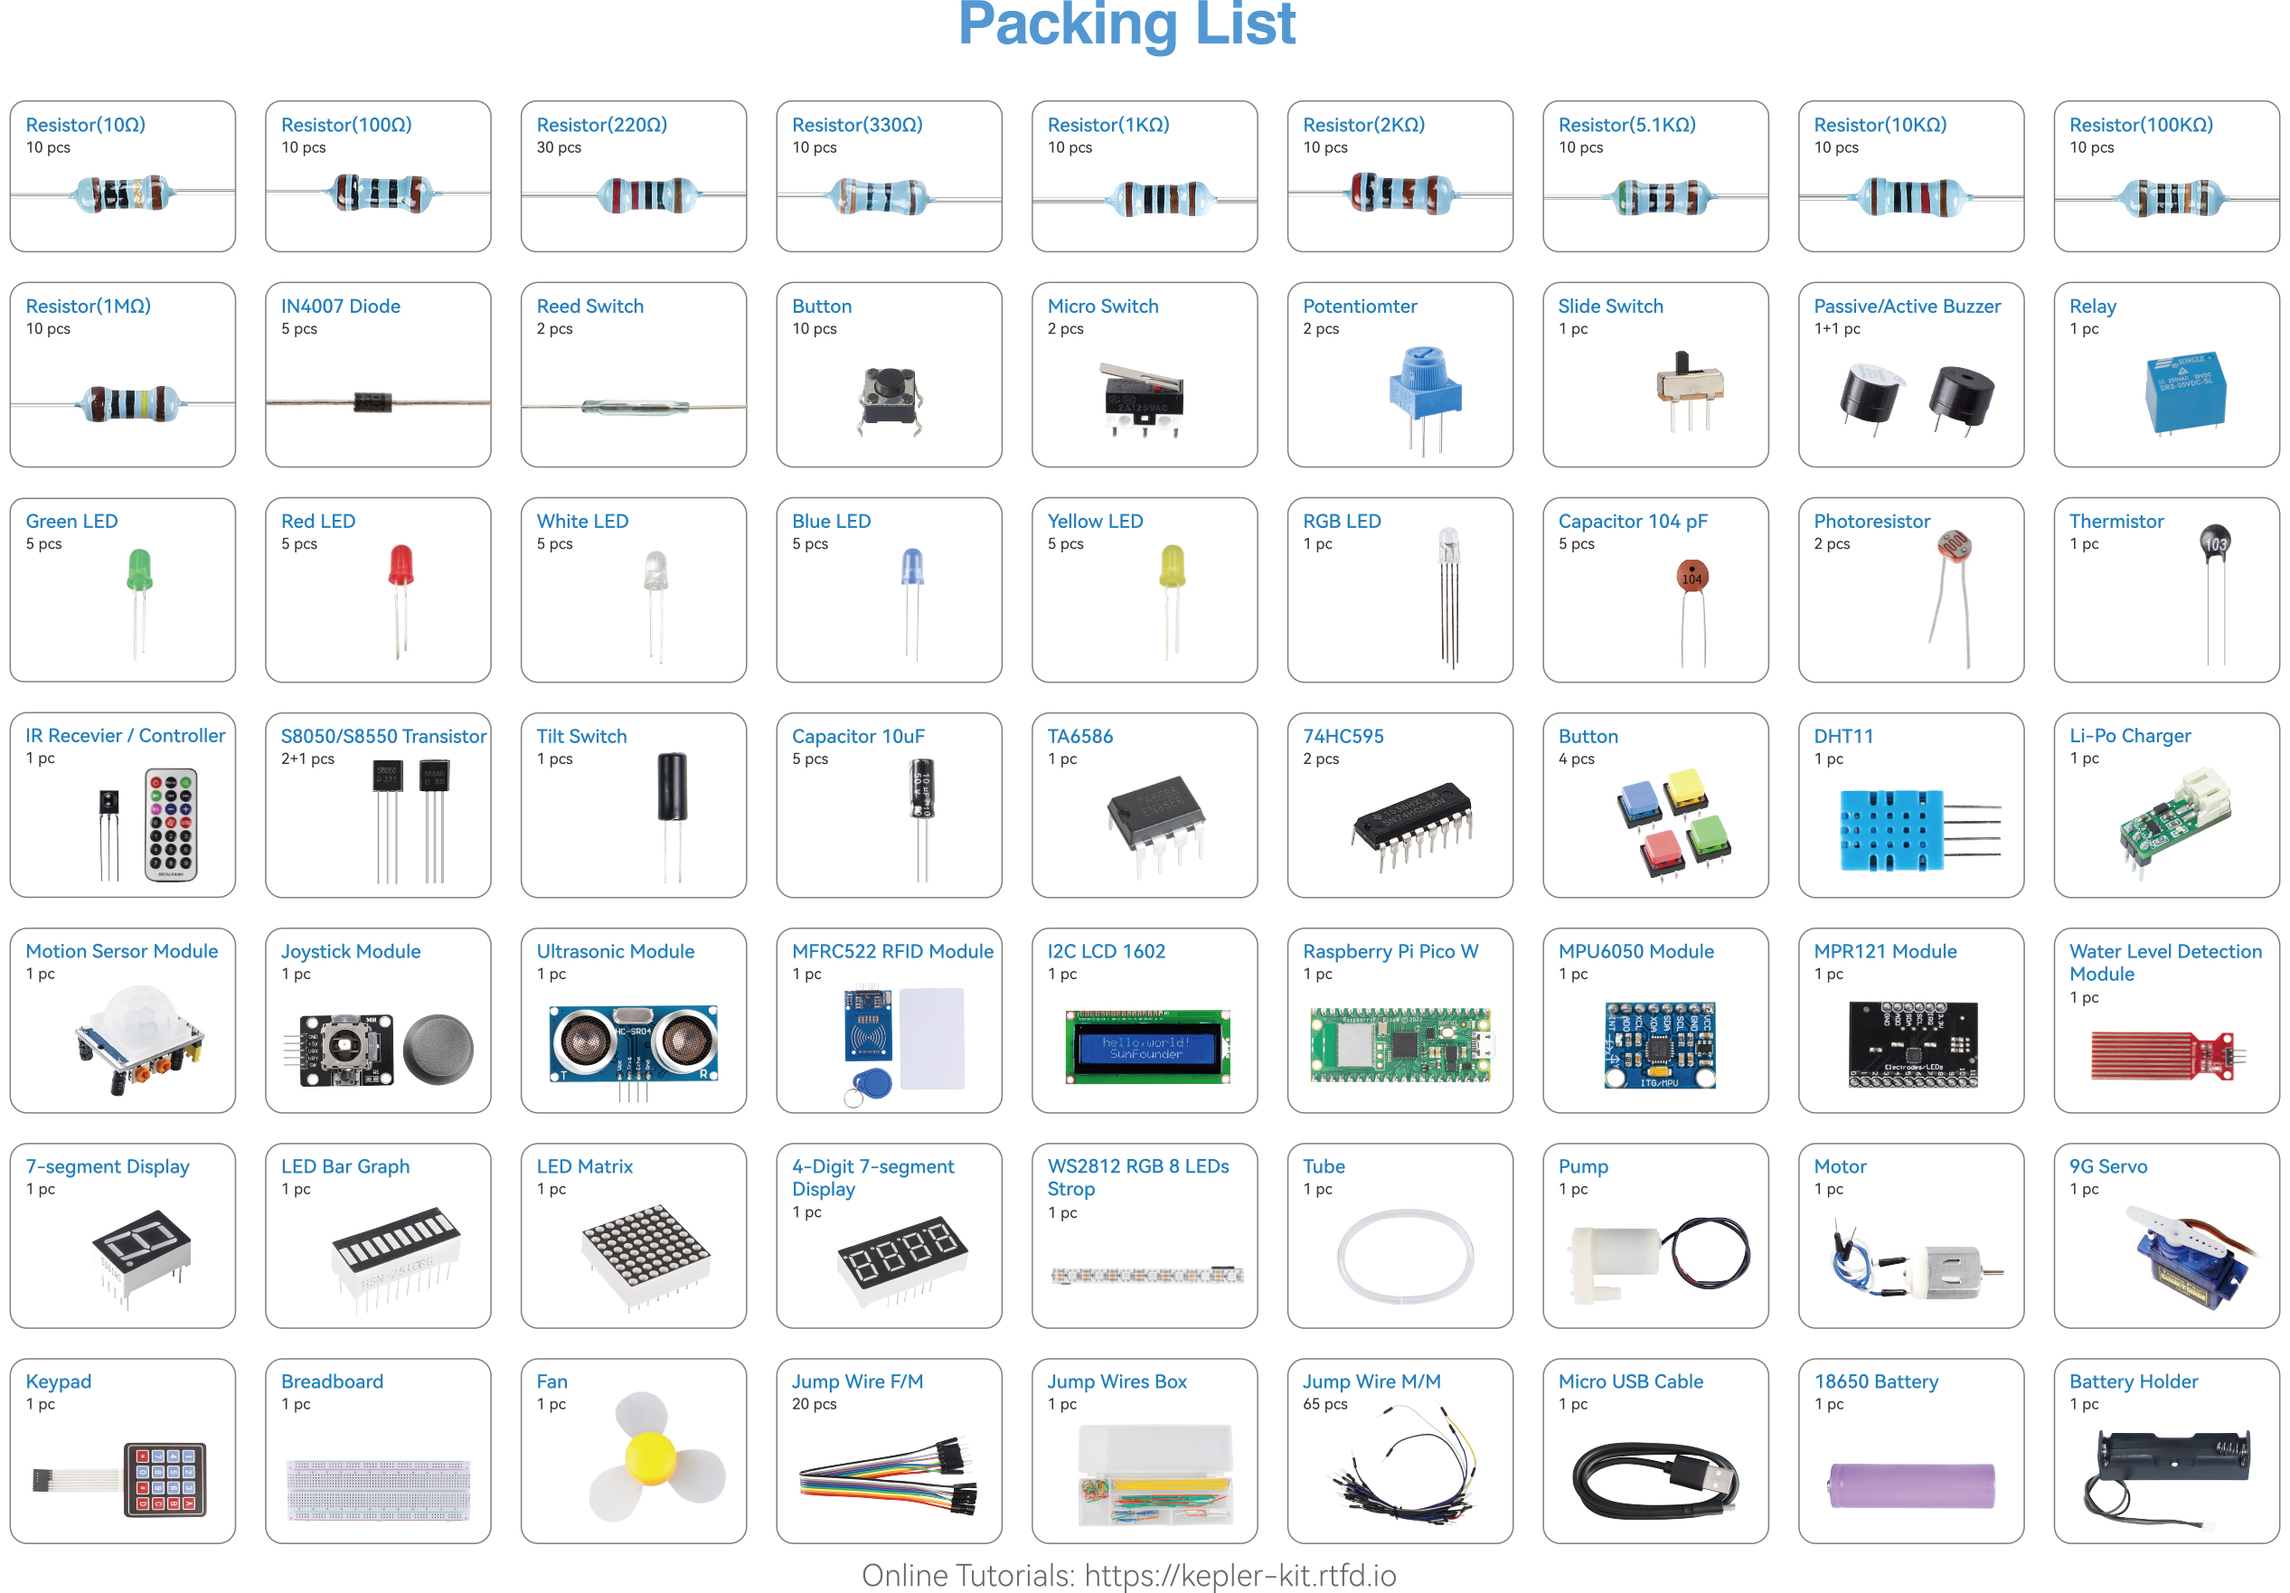
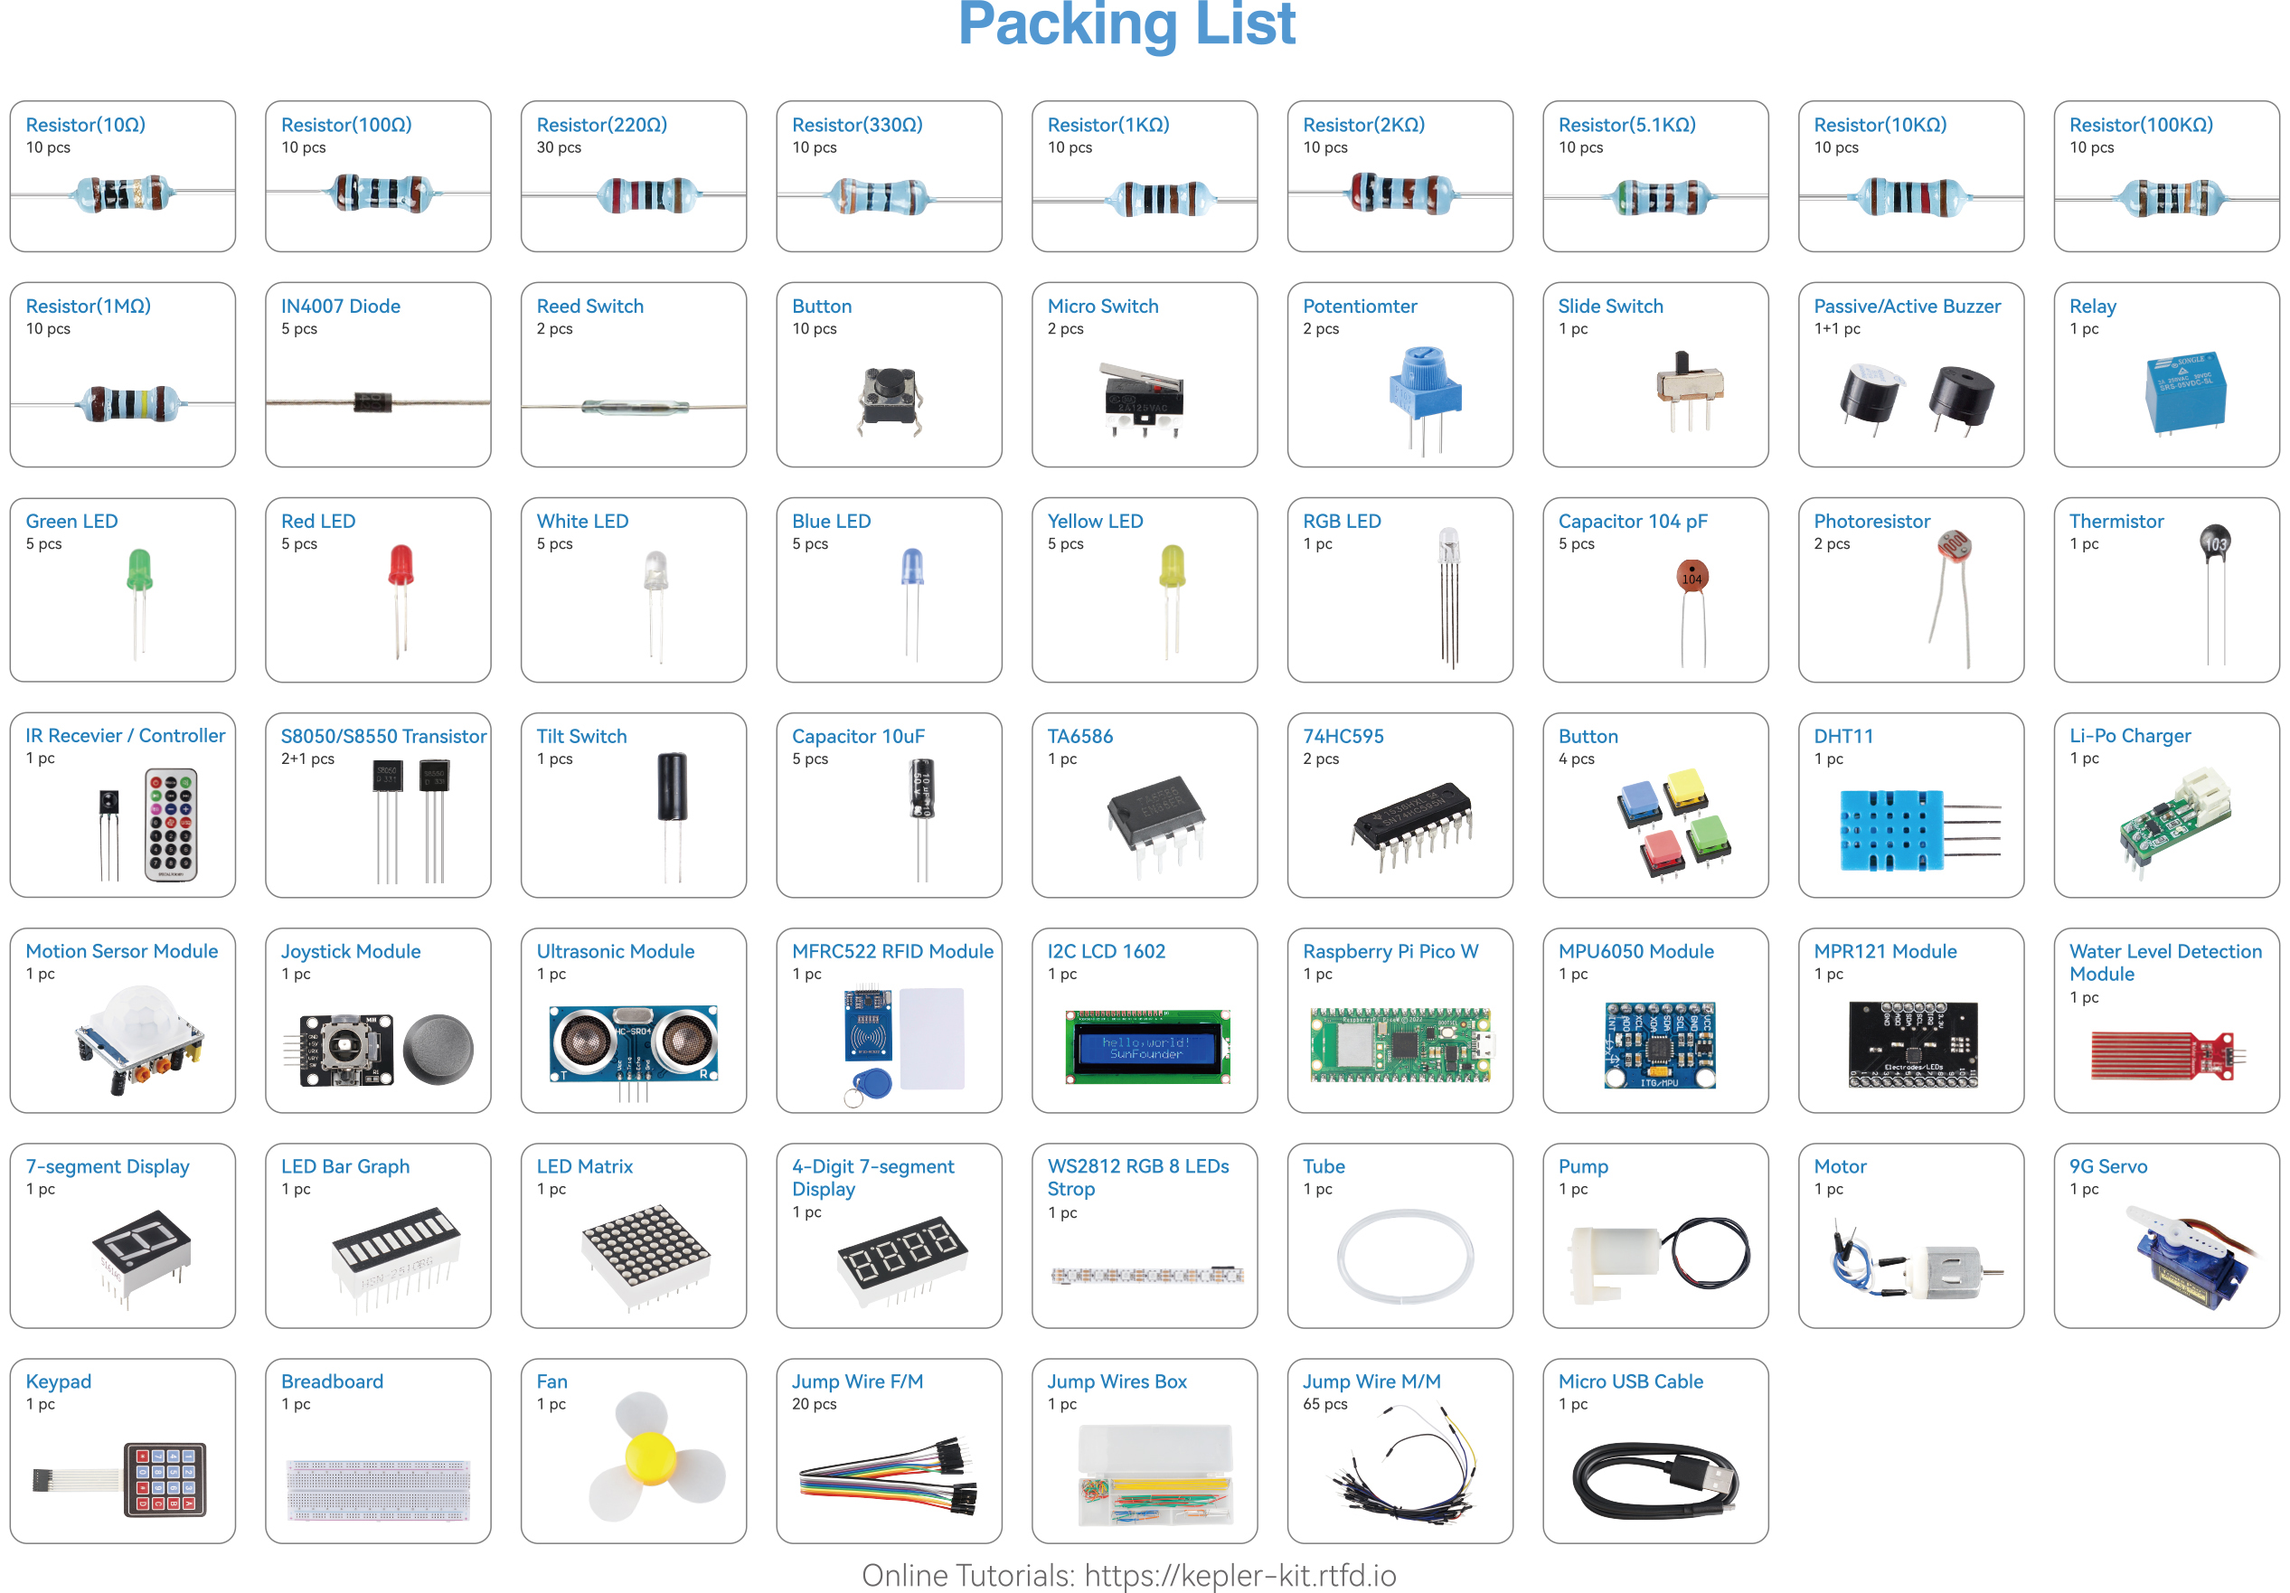
docs-es: sync changes from docs branch
- Replace Batería 18650/18650 with Power Pack
- Remove deprecated html_theme_path in conf.py
- Delete unused images and bc_basic_circuit.rst
- Fix anchor references (74HC595 -> cpn_74hc595)
- Remove stale image substitutions from conf.py and rst files
- Add CLAUDE.md

Changed region(s): [[0.9045, 0.8428, 0.998, 0.9677], [0.7797, 0.9052, 0.8733, 0.9677], [0.7797, 0.8428, 0.8421, 0.874]]

diff --git a/docs/source/conf.py b/docs/source/conf.py
@@ -60,7 +60,6 @@ exclude_patterns = []
 # a list of builtin themes.
 #
 html_theme = 'sphinx_rtd_theme'
-html_theme_path = [sphinx_rtd_theme.get_html_theme_path()]
 
 
 # Add any paths that contain custom static files (such as style sheets) here,
@@ -408,9 +407,6 @@ rst_epilog += """
 .. |fruit_piano| image:: /img/fruit_piano.png
 .. |sirem_alarm| image:: /img/sirem_alarm.png
 .. |guess_number| image:: /img/guess_number.png
-.. |setup_web| image:: /img/setup_web.jpg
-.. |anvil| image:: /img/anvil.jpg
-.. |plant_monitor| image:: /img/plant_monitor.jpg
 
 
 """
@@ -497,7 +493,6 @@ rst_epilog += """
 
 # basic circuit
 rst_epilog += """
-.. |bc1| image:: /img/bc1.png
 .. |bc2| image:: /img/bc2.png
 .. |bc2.5| image:: /img/bc2.5.png
 .. |bc3| image:: /img/bc3.png

diff --git a/CLAUDE.md b/CLAUDE.md
@@ -1,0 +1,63 @@
+# CLAUDE.md
+
+Kepler Kit for Raspberry Pi Pico W — Sphinx 文档项目。
+
+## 最近改动 (2026-07-02)
+
+以下改动需要在其他语言分支（`docs-de`, `docs-es`, `docs-fr`, `docs-it`, `docs-ja`）中同步：
+
+### 1. 修复 conf.py 弃用警告
+
+**文件**: `docs/source/conf.py`
+
+移除了已弃用的 `html_theme_path` 配置行：
+
+```python
+# 旧（已弃用，会导致构建报错）
+html_theme = 'sphinx_rtd_theme'
+html_theme_path = [sphinx_rtd_theme.get_html_theme_path()]
+
+# 新
+html_theme = 'sphinx_rtd_theme'
+```
+
+### 2. "18650 Battery" → "Power Pack"
+
+全文搜索替换，共涉及 **14 个文件**：
+
+- `docs/source/cproject/ar_motor.rst`
+- `docs/source/cproject/ar_pump.rst`
+- `docs/source/piperproject/2.12_smart_fan.rst`
+- `docs/source/pyproject/py_motor.rst`
+- `docs/source/pyproject/py_pump.rst`
+- `docs/source/pyproject/iotproject/2.cheerlight.rst`
+- `docs/source/pyproject/iotproject/3.ifttt_mail.rst`
+- `docs/source/pyproject/iotproject/4.openweather.rst`
+- `docs/source/pyproject/iotproject/5.mqtt_pub.rst`
+- `docs/source/pyproject/iotproject/6.mqtt_sub.rst`
+- `docs/source/pyproject/iotproject/7.web_page.rst`
+- `docs/source/pyproject/iotproject/8.anvil.rst`
+- `docs/source/pyproject/iotproject/9.sunfounder_controller.rst`
+- `docs/source/pyproject/iotproject/10.plant_monitor.rst`
+
+替换内容：`18650 Battery` → `Power Pack`（精确匹配，区分大小写）
+
+### 3. "18650" → "Power Pack"
+
+**文件**: `docs/source/component/component_lipo_charger.rst`
+
+原文：`an 800mAh 18650 used together` → `an 800mAh Power Pack used together`
+
+### 同步到其他分支的方法
+
+对每个语言分支执行：
+
+```bash
+# 1. 修复 conf.py — 移除 html_theme_path 行
+# 手动编辑 conf.py，删除含有 get_html_theme_path() 的那一行
+
+# 2. 全文替换
+cd docs/source
+grep -rl "18650 Battery" . | xargs sed -i 's/18650 Battery/Power Pack/g'
+grep -rl "18650" . | xargs sed -i 's/18650/Power Pack/g'
+```

diff --git a/docs/source/pyproject/iotproject/8.anvil.rst b/docs/source/pyproject/iotproject/8.anvil.rst
@@ -18,7 +18,6 @@
 Escribiremos un proyecto para permitir la comunicación bidireccional entre la Raspberry Pi Pico W y los servidores de Anvil.
 La temperatura y humedad transmitidas desde la Pico W se mostrarán en tiempo real en Anvil. Además, podrás ingresar mensajes en Anvil para que se muestren en el I2C LCD1602 de la Pico W.
 
-|anvil|
 
 **1. Componentes necesarios**
 
@@ -77,7 +76,7 @@ También puedes comprarlos por separado en los enlaces a continuación.
         - 1
         -  
     *   - 8
-        - Batería 18650
+        - Power Pack
         - 1
         -  
     *   - 9

diff --git a/docs/source/pyproject/iotproject/7.web_page.rst b/docs/source/pyproject/iotproject/7.web_page.rst
@@ -17,7 +17,6 @@
 
 En este artículo, aprenderás cómo convertir el Pico W en un servidor web que te permita operar el circuito y obtener lecturas del sensor desde un navegador.
 
-|setup_web|
 
 **1. Componentes Requeridos**
 
@@ -80,7 +79,7 @@ También puedes comprarlos por separado a través de los enlaces a continuación
         - 1
         -  
     *   - 9
-        - Batería 18650
+        - Power Pack
         - 1
         -  
     *   - 10

diff --git a/docs/source/component/component_lipo_charger.rst b/docs/source/component/component_lipo_charger.rst
@@ -38,7 +38,7 @@ Cuando conectas el Pico W a un cable USB conectado a una computadora o toma de c
 * Voltaje de salida: 3.3V
 * Tamaño: 20mmx7mm
 * Modelo de interfaz: PH2.0
-* Hay un soporte de batería de 1A compatible y una batería 18650 de 800mAh para usar en conjunto.
+* Hay un soporte de batería de 1A compatible y una Power Pack de 800mAh para usar en conjunto.
 
 **Esquema**
 

diff --git a/docs/source/pyproject/python_start/syntax/operators.rst b/docs/source/pyproject/python_start/syntax/operators.rst
@@ -17,19 +17,6 @@ Operadores
 
 Los operadores se utilizan para realizar operaciones en variables y valores.
 
-* :ref:`Arithmetic operators`
-
-* :ref:`Assignment operators`
-
-* :ref:`Comparison operators`
-
-* :ref:`Logical operators`
-
-* :ref:`Identity operators`
-
-* :ref:`Membership operators`
-
-* :ref:`Bitwise operators`
 
 Arithmetic operators
 ---------------------------

diff --git a/docs/source/component/component_breadboard.rst b/docs/source/component/component_breadboard.rst
@@ -33,6 +33,4 @@ Aunque estos orificios en el protoboard parecen ser independientes, en realidad 
 
 Si deseas saber más sobre el uso del protoboard, consulta: `How to Use a Breadboard - Science Buddies <https://www.sciencebuddies.org/science-fair-projects/references/how-to-use-a-breadboard#pth-smd>`_
 
-**Ejemplo**
-
 * :ref:`bc_bb`

diff --git a/docs/source/cproject/ar_74hc595_led.rst b/docs/source/cproject/ar_74hc595_led.rst
@@ -27,7 +27,7 @@ Este kit incluye un IC, el 74HC595, que permite reducir considerablemente el uso
 
 * `Binary number - Wikipedia <https://en.wikipedia.org/wiki/Binary_number>`_
 
-* :ref:`74HC595`
+* :ref:`cpn_74hc595`
 
 **Componentes Necesarios**
 

diff --git a/docs/source/pyproject/py_74hc595_led.rst b/docs/source/pyproject/py_74hc595_led.rst
@@ -26,7 +26,7 @@ para la salida de señales digitales escribiendo un número binario de 8 bits.
 
 * `Binary number - Wikipedia <https://en.wikipedia.org/wiki/Binary_number>`_
 
-* :ref:`74HC595`
+* :ref:`cpn_74hc595`
 
 **Componentes Requeridos**
 

diff --git a/docs/source/pyproject/iotproject/3.ifttt_mail.rst b/docs/source/pyproject/iotproject/3.ifttt_mail.rst
@@ -89,7 +89,7 @@ También puedes comprarlos por separado a través de los enlaces a continuación
         - 1
         -  
     *   - 10
-        - Batería 18650
+        - Power Pack
         - 1
         -  
     *   - 11

diff --git a/docs/source/pyproject/iotproject/6.mqtt_sub.rst b/docs/source/pyproject/iotproject/6.mqtt_sub.rst
@@ -82,7 +82,7 @@ También puedes comprarlos por separado a través de los enlaces a continuación
         - 1
         -  
     *   - 9
-        - Batería 18650
+        - Power Pack
         - 1
         -  
     *   - 10

diff --git a/docs/source/pyproject/iotproject/2.cheerlight.rst b/docs/source/pyproject/iotproject/2.cheerlight.rst
@@ -74,7 +74,7 @@ También puedes comprarlos por separado a través de los enlaces a continuación
         - 1
         -  
     *   - 7
-        - Batería 18650
+        - Power Pack
         - 1
         -  
     *   - 8
